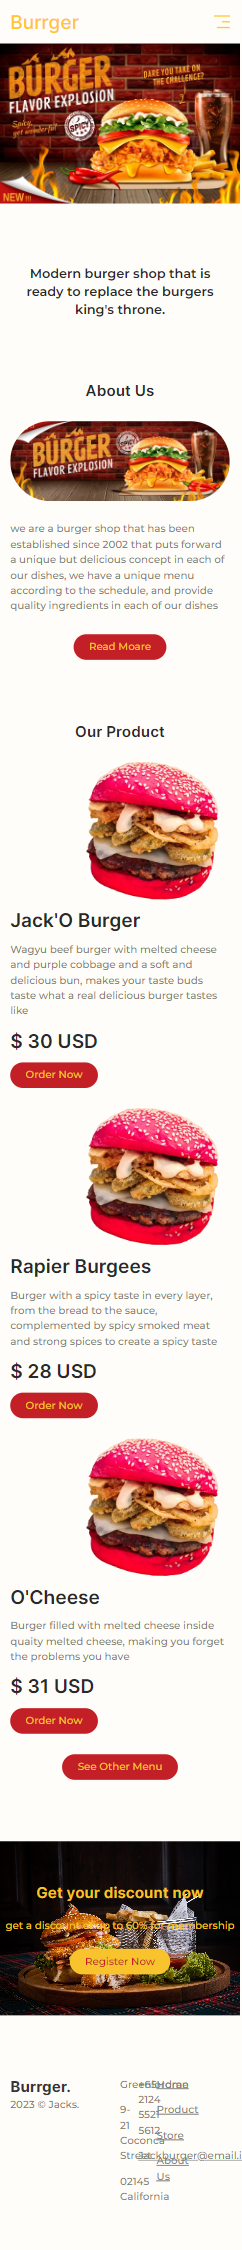
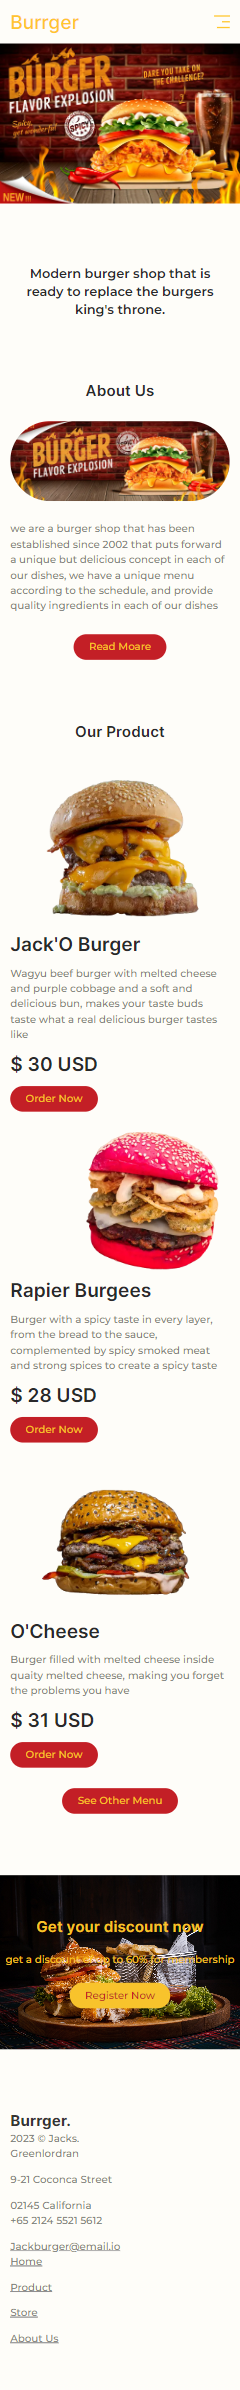
finish project

diff --git a/components/sections/Product.tsx b/components/sections/Product.tsx
@@ -1,4 +1,4 @@
-import { img3 } from "@/public/asstes";
+import { img3, img5, img6 } from "@/public/asstes";
 import Image from "next/image";
 import React from "react";
 
@@ -13,7 +13,7 @@ const Product = () => {
       </h1>
       <div className="grid gird-cols-1 md:grid-cols-2 items-center">
         <div className="flex-1">
-          <Image src={img3} alt="Burger" />
+          <Image src={img6} alt="Burger" />
         </div>
         <div className="space-y-4 flex-1">
           <h2 className="text-3xl font-titleFont font-semibold text-[#29292A]">
@@ -55,7 +55,7 @@ const Product = () => {
       </div>
       <div className="flex items-center flex-col md:flex-row">
         <div className="flex-1">
-          <Image src={img3} alt="Burger" />
+          <Image src={img5} alt="Burger" />
         </div>
         <div className="space-y-4 flex-1">
           <h2 className="text-3xl font-titleFont font-semibold text-[#29292A]">

diff --git a/public/asstes/index.ts b/public/asstes/index.ts
@@ -2,5 +2,7 @@ import img1 from "./images/img1.jpg";
 import img2 from "./images/img2.jpg";
 import img3 from "./images/img3.png";
 import img4 from "./images/img4.jpg";
+import img5 from "./images/img5.png";
+import img6 from "./images/img6.png";
 
-export { img1, img2, img3, img4 };
+export { img1, img2, img3, img4, img5, img6 };
